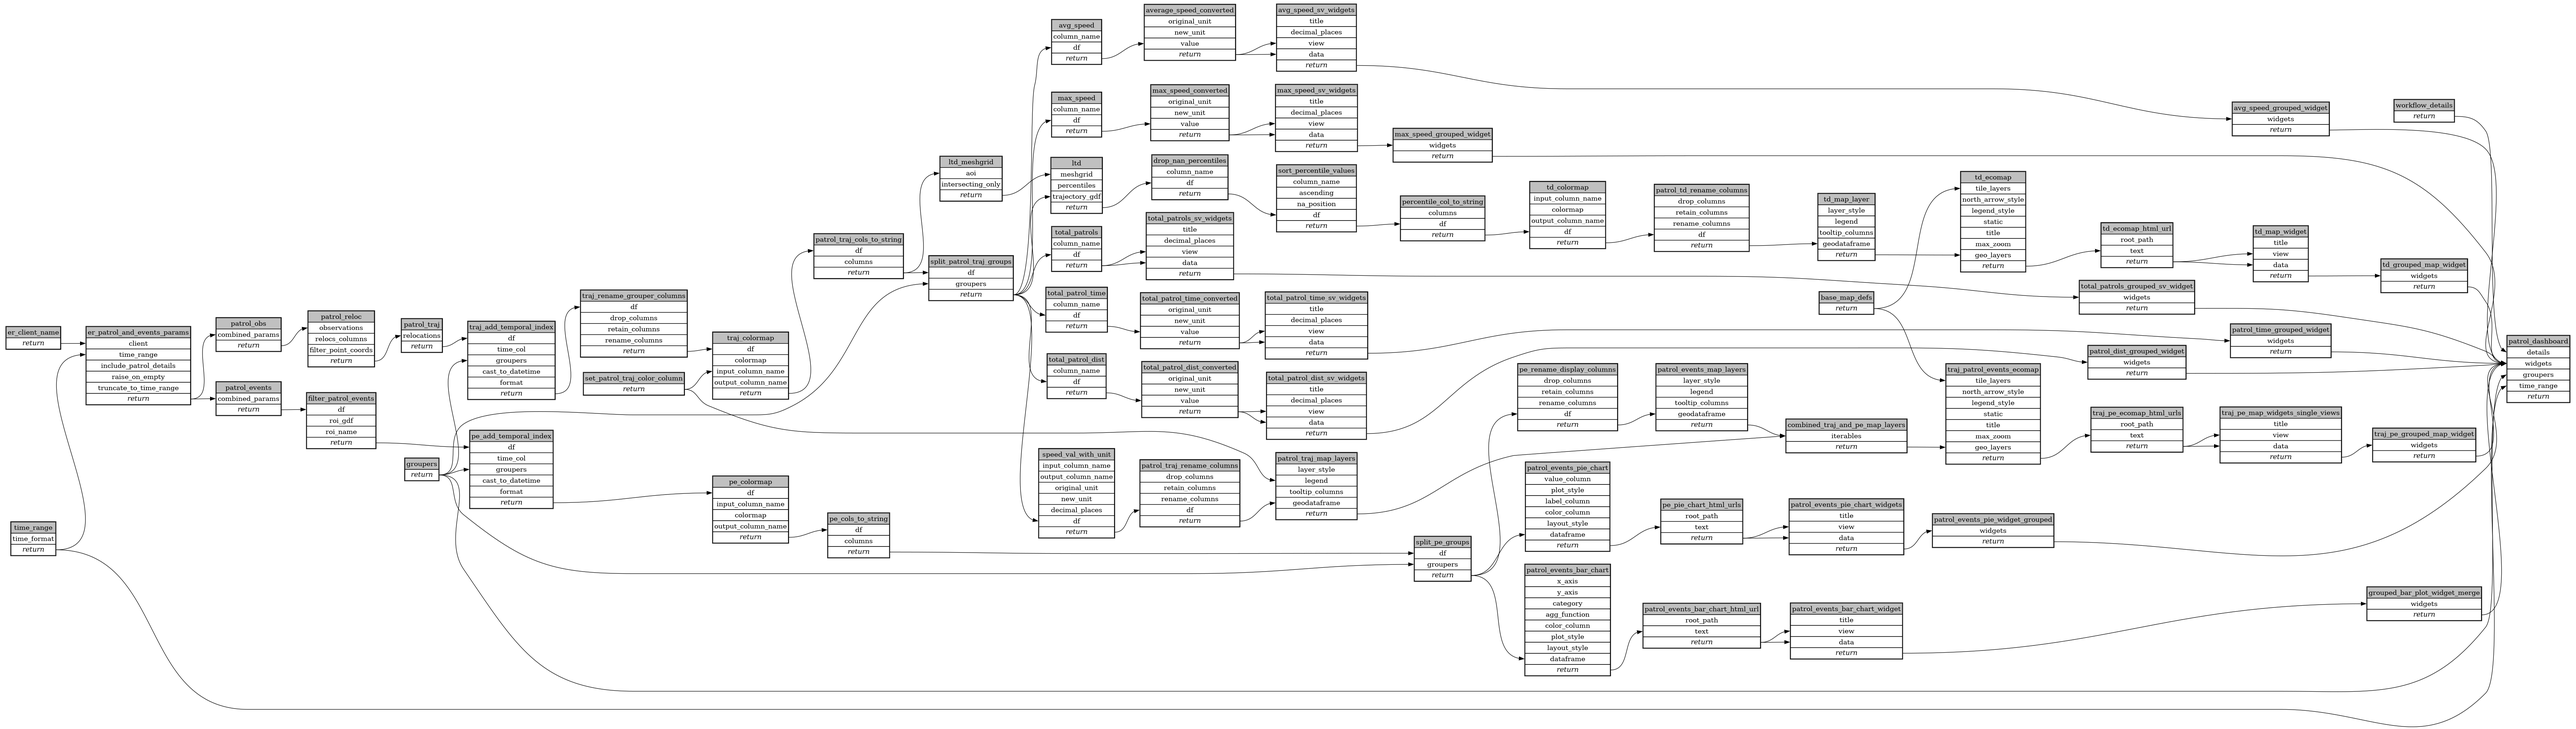
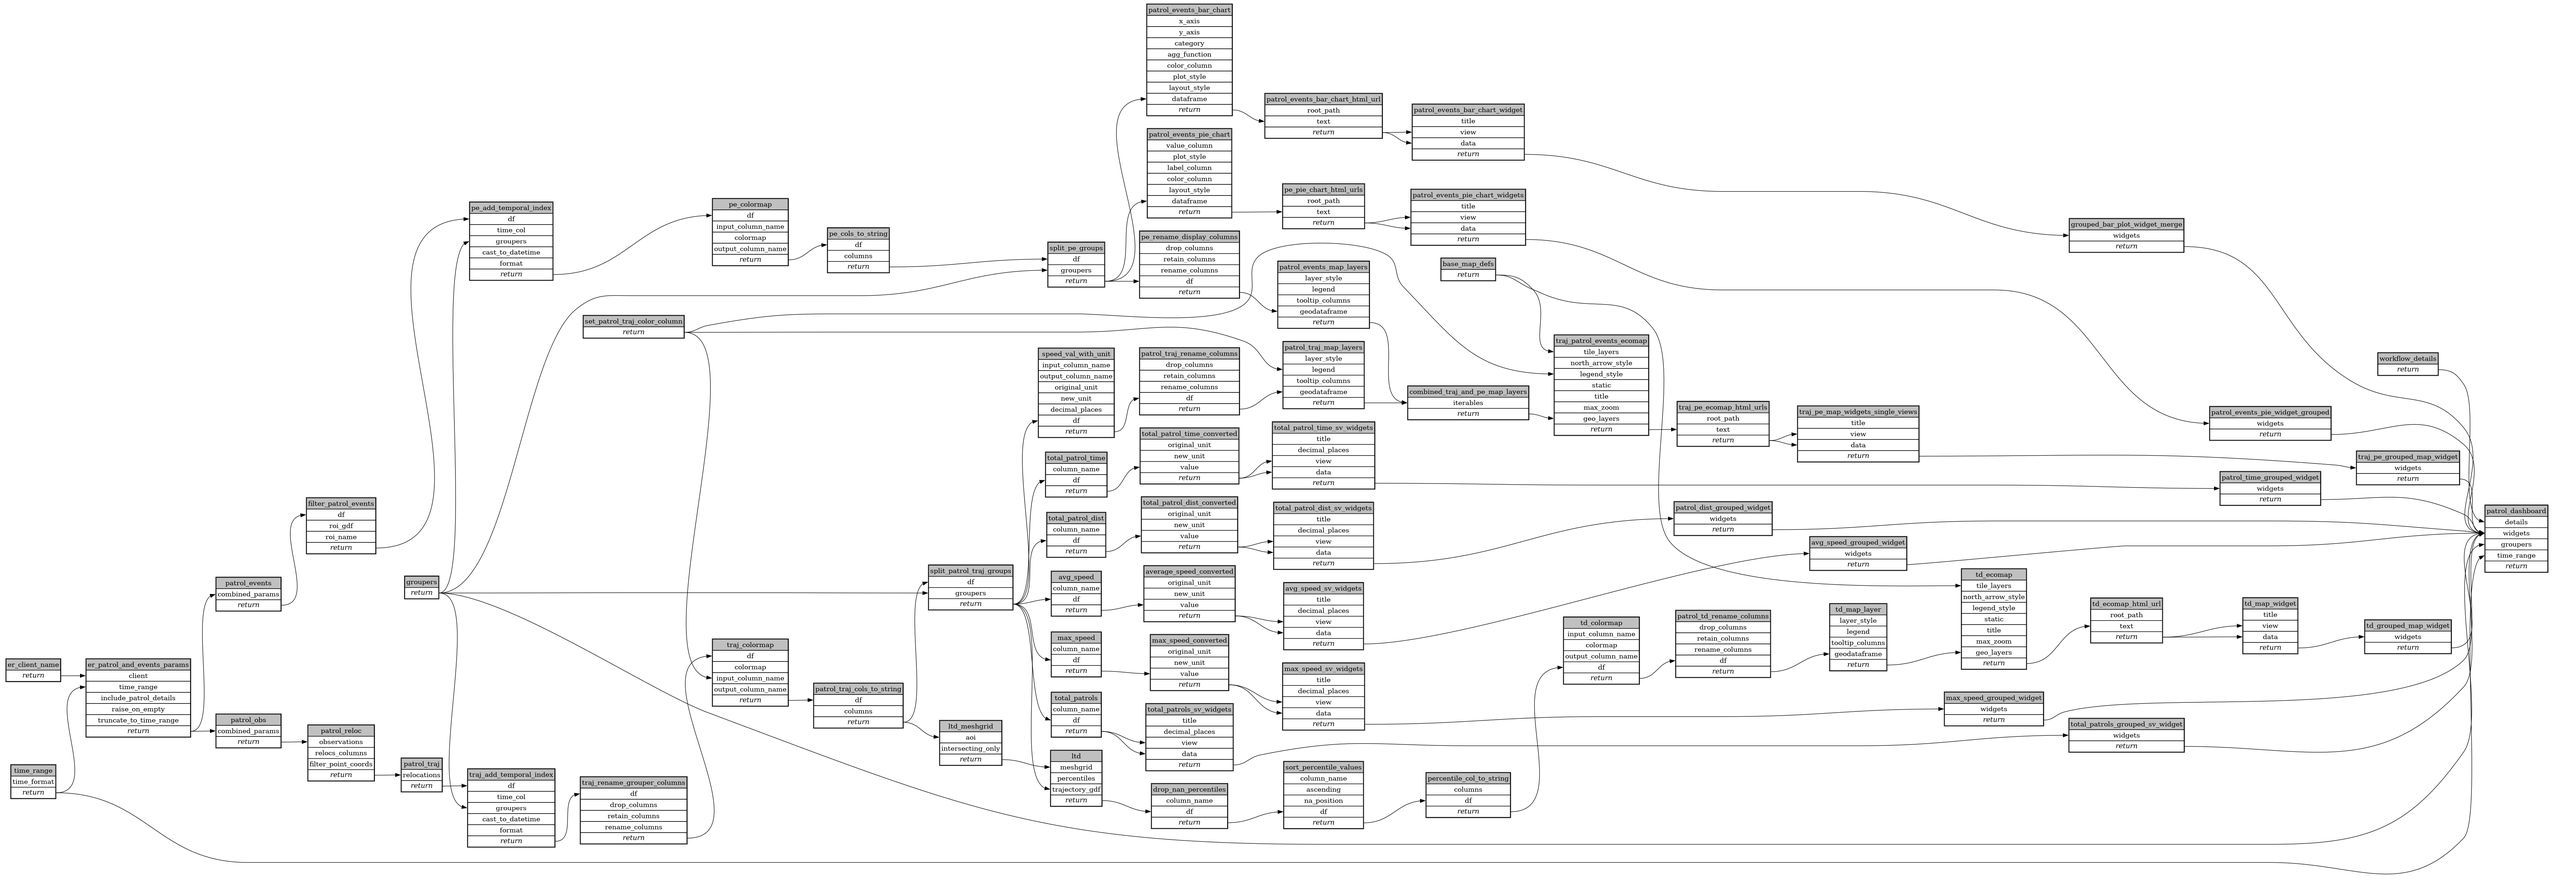
auto: recompile ecoscope-workflows-patrols-workflow

diff --git a/ecoscope-workflows-patrols-workflow/ecoscope_workflows_patrols_workflow/dags/run_async.py b/ecoscope-workflows-patrols-workflow/ecoscope_workflows_patrols_workflow/dags/run_async.py
@@ -107,6 +107,7 @@ def main(params: Params):
         ],
         "traj_patrol_events_ecomap": [
             "base_map_defs",
+            "set_patrol_traj_color_column",
             "combined_traj_and_pe_map_layers",
         ],
         "traj_pe_ecomap_html_urls": ["traj_patrol_events_ecomap"],
@@ -767,7 +768,10 @@ def main(params: Params):
             partial={
                 "tile_layers": DependsOn("base_map_defs"),
                 "north_arrow_style": {"placement": "top-left"},
-                "legend_style": {"placement": "bottom-right"},
+                "legend_style": {
+                    "title": DependsOn("set_patrol_traj_color_column"),
+                    "placement": "bottom-right",
+                },
                 "static": False,
                 "title": None,
                 "max_zoom": 20,
@@ -1419,7 +1423,7 @@ def main(params: Params):
             .set_executor("lithops"),
             partial={
                 "meshgrid": DependsOn("ltd_meshgrid"),
-                "percentiles": [50.0, 60.0, 70.0, 80.0, 90.0, 95.0, 100.0],
+                "percentiles": [50.0, 60.0, 70.0, 80.0, 90.0, 100.0],
             }
             | (params_dict.get("ltd") or {}),
             method="mapvalues",
@@ -1559,6 +1563,7 @@ def main(params: Params):
                 },
                 "legend": {
                     "label_column": "Percentile",
+                    "label_suffix": " %",
                     "color_column": "percentile_colormap",
                 },
                 "tooltip_columns": ["Percentile"],
@@ -1584,7 +1589,7 @@ def main(params: Params):
             partial={
                 "tile_layers": DependsOn("base_map_defs"),
                 "north_arrow_style": {"placement": "top-left"},
-                "legend_style": {"placement": "bottom-right"},
+                "legend_style": {"title": "Time Spent", "placement": "bottom-right"},
                 "static": False,
                 "title": None,
                 "max_zoom": 20,

diff --git a/ecoscope-workflows-patrols-workflow/ecoscope_workflows_patrols_workflow/dags/run_async_mock_io.py b/ecoscope-workflows-patrols-workflow/ecoscope_workflows_patrols_workflow/dags/run_async_mock_io.py
@@ -124,6 +124,7 @@ def main(params: Params):
         ],
         "traj_patrol_events_ecomap": [
             "base_map_defs",
+            "set_patrol_traj_color_column",
             "combined_traj_and_pe_map_layers",
         ],
         "traj_pe_ecomap_html_urls": ["traj_patrol_events_ecomap"],
@@ -784,7 +785,10 @@ def main(params: Params):
             partial={
                 "tile_layers": DependsOn("base_map_defs"),
                 "north_arrow_style": {"placement": "top-left"},
-                "legend_style": {"placement": "bottom-right"},
+                "legend_style": {
+                    "title": DependsOn("set_patrol_traj_color_column"),
+                    "placement": "bottom-right",
+                },
                 "static": False,
                 "title": None,
                 "max_zoom": 20,
@@ -1436,7 +1440,7 @@ def main(params: Params):
             .set_executor("lithops"),
             partial={
                 "meshgrid": DependsOn("ltd_meshgrid"),
-                "percentiles": [50.0, 60.0, 70.0, 80.0, 90.0, 95.0, 100.0],
+                "percentiles": [50.0, 60.0, 70.0, 80.0, 90.0, 100.0],
             }
             | (params_dict.get("ltd") or {}),
             method="mapvalues",
@@ -1576,6 +1580,7 @@ def main(params: Params):
                 },
                 "legend": {
                     "label_column": "Percentile",
+                    "label_suffix": " %",
                     "color_column": "percentile_colormap",
                 },
                 "tooltip_columns": ["Percentile"],
@@ -1601,7 +1606,7 @@ def main(params: Params):
             partial={
                 "tile_layers": DependsOn("base_map_defs"),
                 "north_arrow_style": {"placement": "top-left"},
-                "legend_style": {"placement": "bottom-right"},
+                "legend_style": {"title": "Time Spent", "placement": "bottom-right"},
                 "static": False,
                 "title": None,
                 "max_zoom": 20,

diff --git a/ecoscope-workflows-patrols-workflow/ecoscope_workflows_patrols_workflow/dags/run_sequential.py b/ecoscope-workflows-patrols-workflow/ecoscope_workflows_patrols_workflow/dags/run_sequential.py
@@ -635,7 +635,10 @@ def main(params: Params):
         .partial(
             tile_layers=base_map_defs,
             north_arrow_style={"placement": "top-left"},
-            legend_style={"placement": "bottom-right"},
+            legend_style={
+                "title": set_patrol_traj_color_column,
+                "placement": "bottom-right",
+            },
             static=False,
             title=None,
             max_zoom=20,
@@ -1187,7 +1190,7 @@ def main(params: Params):
         )
         .partial(
             meshgrid=ltd_meshgrid,
-            percentiles=[50.0, 60.0, 70.0, 80.0, 90.0, 95.0, 100.0],
+            percentiles=[50.0, 60.0, 70.0, 80.0, 90.0, 100.0],
             **(params_dict.get("ltd") or {}),
         )
         .mapvalues(argnames=["trajectory_gdf"], argvalues=split_patrol_traj_groups)
@@ -1302,6 +1305,7 @@ def main(params: Params):
             },
             legend={
                 "label_column": "Percentile",
+                "label_suffix": " %",
                 "color_column": "percentile_colormap",
             },
             tooltip_columns=["Percentile"],
@@ -1323,7 +1327,7 @@ def main(params: Params):
         .partial(
             tile_layers=base_map_defs,
             north_arrow_style={"placement": "top-left"},
-            legend_style={"placement": "bottom-right"},
+            legend_style={"title": "Time Spent", "placement": "bottom-right"},
             static=False,
             title=None,
             max_zoom=20,

diff --git a/ecoscope-workflows-patrols-workflow/ecoscope_workflows_patrols_workflow/dags/run_sequential_mock_io.py b/ecoscope-workflows-patrols-workflow/ecoscope_workflows_patrols_workflow/dags/run_sequential_mock_io.py
@@ -652,7 +652,10 @@ def main(params: Params):
         .partial(
             tile_layers=base_map_defs,
             north_arrow_style={"placement": "top-left"},
-            legend_style={"placement": "bottom-right"},
+            legend_style={
+                "title": set_patrol_traj_color_column,
+                "placement": "bottom-right",
+            },
             static=False,
             title=None,
             max_zoom=20,
@@ -1204,7 +1207,7 @@ def main(params: Params):
         )
         .partial(
             meshgrid=ltd_meshgrid,
-            percentiles=[50.0, 60.0, 70.0, 80.0, 90.0, 95.0, 100.0],
+            percentiles=[50.0, 60.0, 70.0, 80.0, 90.0, 100.0],
             **(params_dict.get("ltd") or {}),
         )
         .mapvalues(argnames=["trajectory_gdf"], argvalues=split_patrol_traj_groups)
@@ -1319,6 +1322,7 @@ def main(params: Params):
             },
             legend={
                 "label_column": "Percentile",
+                "label_suffix": " %",
                 "color_column": "percentile_colormap",
             },
             tooltip_columns=["Percentile"],
@@ -1340,7 +1344,7 @@ def main(params: Params):
         .partial(
             tile_layers=base_map_defs,
             north_arrow_style={"placement": "top-left"},
-            legend_style={"placement": "bottom-right"},
+            legend_style={"title": "Time Spent", "placement": "bottom-right"},
             static=False,
             title=None,
             max_zoom=20,

diff --git a/ecoscope-workflows-patrols-workflow/ecoscope_workflows_patrols_workflow/dags/jupytext.py b/ecoscope-workflows-patrols-workflow/ecoscope_workflows_patrols_workflow/dags/jupytext.py
@@ -992,7 +992,10 @@ traj_patrol_events_ecomap = (
     .partial(
         tile_layers=base_map_defs,
         north_arrow_style={"placement": "top-left"},
-        legend_style={"placement": "bottom-right"},
+        legend_style={
+            "title": set_patrol_traj_color_column,
+            "placement": "bottom-right",
+        },
         static=False,
         title=None,
         max_zoom=20,
@@ -1893,7 +1896,7 @@ ltd = (
     )
     .partial(
         meshgrid=ltd_meshgrid,
-        percentiles=[50.0, 60.0, 70.0, 80.0, 90.0, 95.0, 100.0],
+        percentiles=[50.0, 60.0, 70.0, 80.0, 90.0, 100.0],
         **ltd_params,
     )
     .mapvalues(argnames=["trajectory_gdf"], argvalues=split_patrol_traj_groups)
@@ -2077,7 +2080,11 @@ td_map_layer = (
             "opacity": 0.7,
             "get_line_width": 0,
         },
-        legend={"label_column": "Percentile", "color_column": "percentile_colormap"},
+        legend={
+            "label_column": "Percentile",
+            "label_suffix": " %",
+            "color_column": "percentile_colormap",
+        },
         tooltip_columns=["Percentile"],
         **td_map_layer_params,
     )
@@ -2111,7 +2118,7 @@ td_ecomap = (
     .partial(
         tile_layers=base_map_defs,
         north_arrow_style={"placement": "top-left"},
-        legend_style={"placement": "bottom-right"},
+        legend_style={"title": "Time Spent", "placement": "bottom-right"},
         static=False,
         title=None,
         max_zoom=20,

diff --git a/ecoscope-workflows-patrols-workflow/ecoscope_workflows_patrols_workflow/formdata.py b/ecoscope-workflows-patrols-workflow/ecoscope_workflows_patrols_workflow/formdata.py
@@ -55,9 +55,9 @@ class ErPatrolAndEventsParams(BaseModel):
         title="Event Types",
     )
     status: Optional[List[StatusEnum]] = Field(
-        None,
+        ["done"],
         description="Choose to analyze patrols with a certain status. If left empty, patrols of all status will be analyzed",
-        title="Status",
+        title="Patrol Status",
     )
     include_null_geometry: Optional[bool] = Field(
         True, title="Include Events Without a Geometry (point or polygon)"
@@ -333,8 +333,8 @@ class CustomGridCellSize(BaseModel):
     )
     grid_cell_size: Optional[confloat(lt=10000.0, gt=0.0)] = Field(
         5000,
-        description="Define the resolution of the raster grid (in metres per pixel). A smaller grid cell size provides more details, while a larger size generalizes the data.",
-        title="Custom Grid Cell Size (Meters)",
+        description="Define the resolution of the raster grid (in the unit of measurement defined by the coordinate reference system set below). A smaller grid cell size provides more detail, while a larger size generalizes the data.",
+        title="Custom Grid Cell Size",
     )
 
 

diff --git a/ecoscope-workflows-patrols-workflow/ecoscope_workflows_patrols_workflow/params.py b/ecoscope-workflows-patrols-workflow/ecoscope_workflows_patrols_workflow/params.py
@@ -55,9 +55,9 @@ class ErPatrolAndEventsParams(BaseModel):
         title="Event Types",
     )
     status: Optional[List[StatusEnum]] = Field(
-        None,
+        ["done"],
         description="Choose to analyze patrols with a certain status. If left empty, patrols of all status will be analyzed",
-        title="Status",
+        title="Patrol Status",
     )
     include_null_geometry: Optional[bool] = Field(
         True, title="Include Events Without a Geometry (point or polygon)"
@@ -317,8 +317,8 @@ class CustomGridCellSize(BaseModel):
     )
     grid_cell_size: Optional[confloat(lt=10000.0, gt=0.0)] = Field(
         5000,
-        description="Define the resolution of the raster grid (in metres per pixel). A smaller grid cell size provides more details, while a larger size generalizes the data.",
-        title="Custom Grid Cell Size (Meters)",
+        description="Define the resolution of the raster grid (in the unit of measurement defined by the coordinate reference system set below). A smaller grid cell size provides more detail, while a larger size generalizes the data.",
+        title="Custom Grid Cell Size",
     )
 
 

diff --git a/ecoscope-workflows-patrols-workflow/README.md b/ecoscope-workflows-patrols-workflow/README.md
@@ -5,17 +5,17 @@
 
 ```yaml
 # fingerprint:
-artifacts_sha256_basic: 48d06d34d0c1c18fd917b6750e8faadf0d983b56d492695b19ddc2fbdbffd466
-artifacts_sha256_strict: ae29772b2a8394e35ad681f2ec4f0c2f3f3bba2166b5fe1af21a62cee68b7474
+artifacts_sha256_basic: 7a17fdd3f3a9114be3b78c10c1424cd6c388a86e6171f8c2ac7916ad7f89117d
+artifacts_sha256_strict: e6d710d3fdc40fab77449579523a807e6c4d0e59198520add34fb6138e5d40af
 installed_requirements:
 - channel: https://repo.prefix.dev/ecoscope-workflows/
   name: ecoscope-workflows-core
-  version: {version: ==0.7.2}
+  version: {version: ==0.7.3}
 - channel: https://repo.prefix.dev/ecoscope-workflows/
   name: ecoscope-workflows-ext-ecoscope
-  version: {version: ==0.7.2}
+  version: {version: ==0.7.3}
 params_sha256: 4a8169c999b9a65f78bb38c5dc7763552cf8bdddd23d7d285fb26f8d3350a001
-spec_sha256: 50bd52ab8f10569223cd9cb7f562fb292d06eab6a8247a9cdb7bb368aa346965
+spec_sha256: 2eeba3754073edd870f3e011a548dca5377acedaefcaffc941a544c3fe426c26
 
 ```
 
